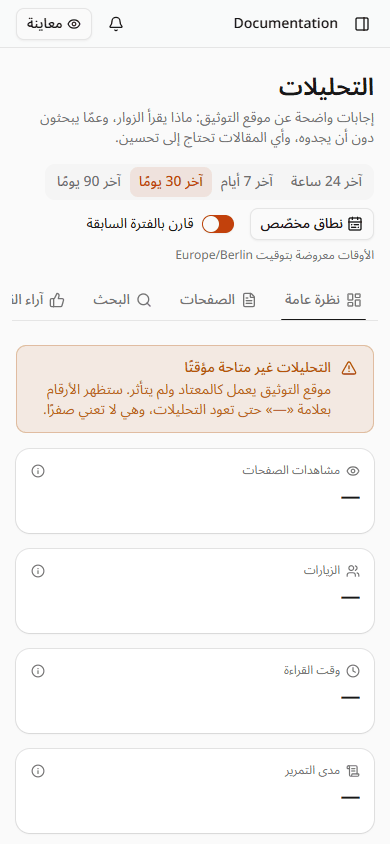
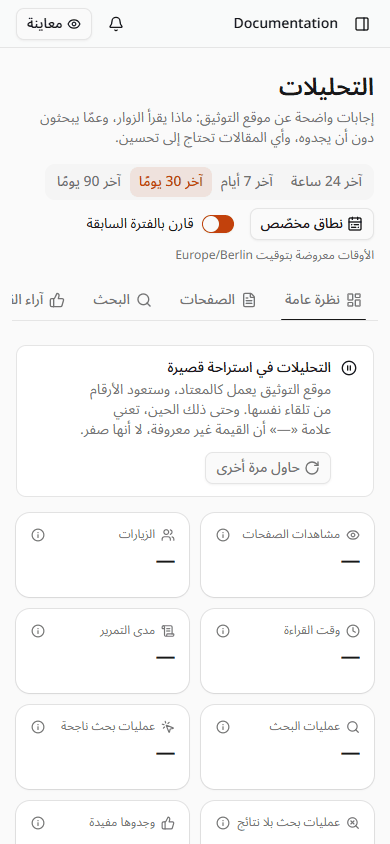
docs(analytics): capture loading skeletons and the calmer unavailable state

diff --git a/.github/assets/feat-clickhouse-analytics-parity/README.md b/.github/assets/feat-clickhouse-analytics-parity/README.md
@@ -25,7 +25,8 @@ The data is fictional:
 | `search-visible-*.png` | Search with terms on: failed searches with "Write an article for this" |
 | `feedback-en-desktop.png`, `performance-*.png` | Helpfulness trend and pages, real-user loading speed (p75) |
 | `ai-*.png` | AI visibility: crawler categories, bots, machine files, most crawled pages, visits from AI assistants |
-| `outage-*.png` | ClickHouse unreachable: the dashboard says analytics is temporarily unavailable and the docs site is unaffected. The reader page served normally at the same moment |
+| `skeleton-*.png` | First load: content-shaped skeletons (stat tiles, charts, table rows) while the insights responses are held back; the shell, filters and tabs render immediately |
+| `outage-*.png` | ClickHouse unreachable: the dashboard calmly says analytics is taking a break and the docs site works normally, with a "Try again" button. The reader page served normally at the same moment |
 | `overview-to-page-en.gif` | Overview → 7-day range → Pages → a page's drill-down |
 | `search-write-article-en.gif`, `search-write-article-en.webm` | Search → turn on search terms (confirm) → "Write an article for this" → the draft opens in the editor |
 | `ar-mobile-overview-ai.gif` | Arabic, 390 px: Overview and AI visibility |
